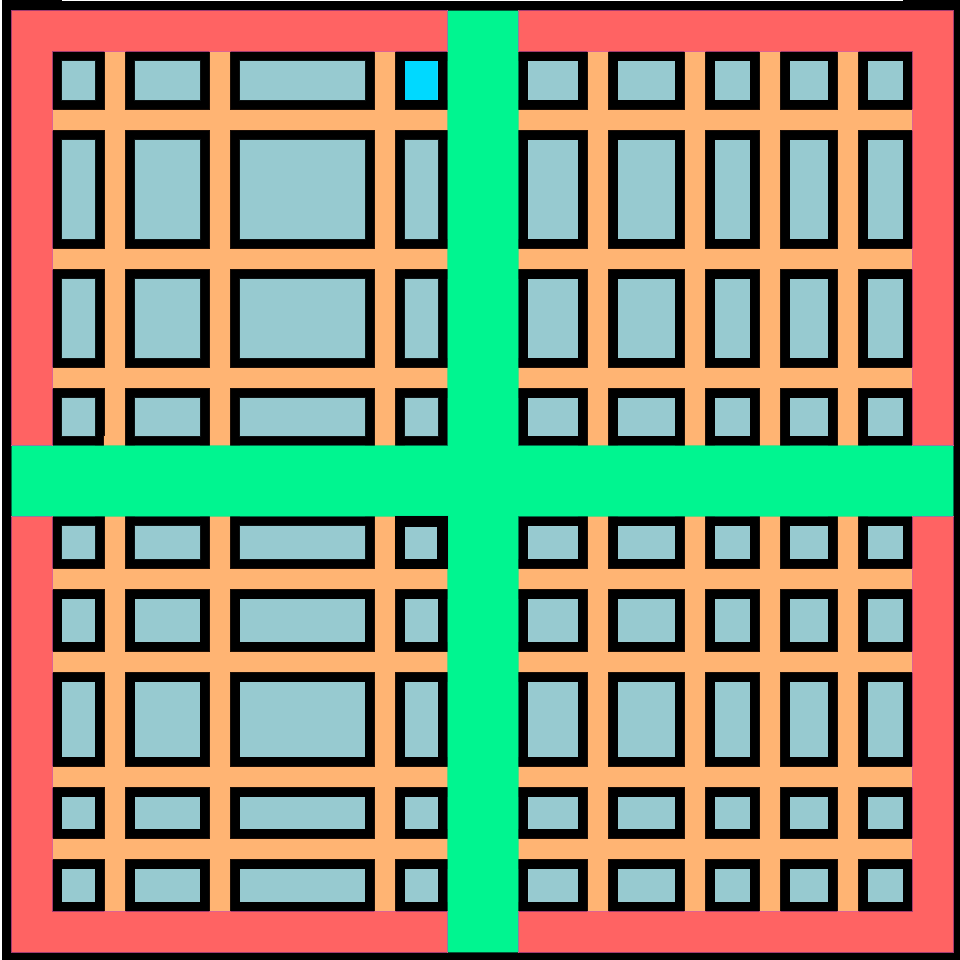
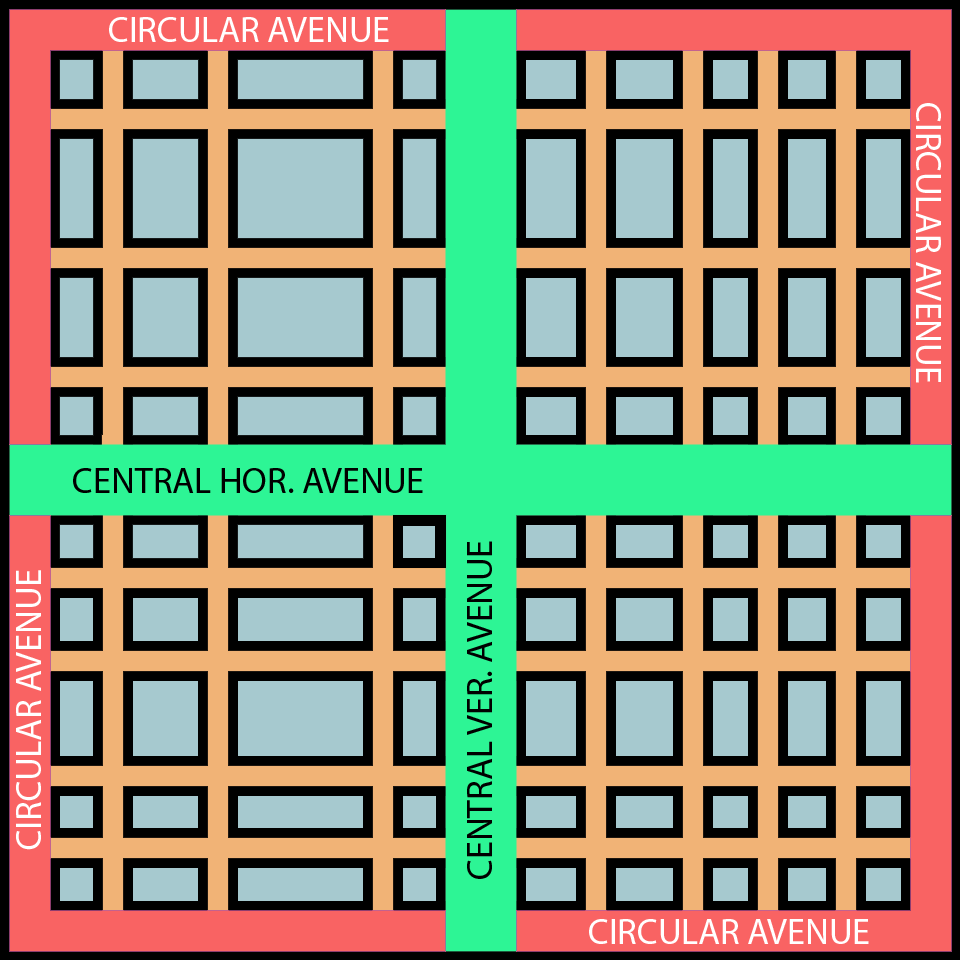
Updated procdural city page

diff --git a/proceduralcity.html b/proceduralcity.html
@@ -270,8 +270,83 @@
 
               <br>
               <h5><strong>Grid generation</strong></h5>
+              <p>Now that I've explained the different segments of our city I'm explaining the whole process of generating it.</p>
               
+              <p>The first step is to create a District by setting up its location, size, street width and avenue width, after that the district starts creating a series of structures called
+                "TemporalStreet", which are the first approach to the streets of our district.
+              </p>
               
+              <br>
+              <h5><strong>Circular and central avenues</strong></h5>
+              <p>Every district has in common a series of streets, the ones called "Circular avenues" and "central avenues", these ones will be created by using temporal streets and the layout would look like this:</p>
+              <div>
+                <img src="assets/img/portfolio/temporal_district_layout.png" width="480" height="480">
+                <p><i>District layout with temporal streets.</i></p>
+              </div>
+
+              <p>The purpose of the temporal streets is to mark off the boundings of the district and to have a way to communicate different districts,</p>
+              
+              <br>
+              <h5><strong>Horizontal and vertical streets</strong></h5>
+              <p>The next step is to create temporal streets to delimitate the flats of our district using the street width that we selected when we created the district. In this step we're going to
+                make a distinction between horizontal and vertical streets and we will create the horizontal streets first in order to define the height of our future flats.
+              </p>
+              <div>
+                <img src="assets/img/portfolio/horizontal_grid.png" width="480" height="480">
+                <p><i>District layout with temporal horizontal streets.</i></p>
+              </div>
+
+              <p>This is the layout with all the horizontal streets, and now we're going to repeat the same operation but with vertical streets, generating the next layout:</p>
+              <div>
+                <img src="assets/img/portfolio/city_grid.png" width="480" height="480">
+                <p><i>District layout with temporal horizontal streets.</i></p>
+              </div>
+
+              <p>And with this simple steps we have the layout for our districts with a fixed spaced for the flats where the buildings will be placed, but currently we only have a "data layout"
+                and we need to convert it into a "physical" one by placing streets and flats.
+              </p>
+
+              <p>The main problem with this approach is that we want to connect our streets smoothly with the different intersections that we have, and currently we only have a bunch of horizontal and vertical
+                streets, and if we place our streets over those "temporal streets" our streets will collide and have <strong>"z fighting"</strong> and very ugly intersections, so, we are going to segment the streets using
+                the intersections between the horizontal and vertical temporal streets and will create "physical" streets on runtime.
+              </p>
+
+              <br>
+              <h5><strong>Street segmentation</strong></h5>
+              <p>For the segmentation process first we have to sort our arrays of temporal streets as we want to iterate through them from the left to the right and from the top to the bottom.</p>
+              <p>The segmentation process is very simple, we just need to check the intersections of the streets and have a control on where the street starts and of its size, and with that data we are ready
+                to instantiate a street with wanted mesh.
+              </p>
+
+              <p>Its important to know which street are we calculating, as we will need to differentiate between streets and intersections, but that's the next step, first we want to make sure that
+                we can create the separate street segments.
+              </p>
+
+              <p>To ease the process of segmentating the streets we are going to take advantage of the predictability of our grid by just calculating the intersections of two of our streets, the circular bottom
+              and the circular left avenue as they also count as regular streets but wider.
+              </p>
+
+              <div>
+                <img src="assets/img/portfolio/segmentation.gif" width="480" height="480">
+                <p><i>District segmentation process.</i></p>
+              </div>
+
+              <p>As you can see the streets are being segmentd in order, first the horizontal and then the vertical one. You also may have noticed that the street is cut just before the intersection and that's 
+                because we need those spots to place a intersection depending on the number of connecting streets in that point.
+              </p>
+
+              <p>The next step is to repeat the process for every street used the stored intersections and interpolating between them, and with that we achieve a full district ready to place flats and buildings.</p>
+              <p>The positioning of the flats is made during the segmentation process, as it's the optimal moment to do it because you're checking the bounds of the intersecting streets and you can find the central
+                point and size of the flat easily.
+              </p>
+
+              <br>
+              <h5><strong>Building placement</strong></h5>
+              <p>The building placement is the last thing we need to do and the process is very simple. First we need to arrange our buildings by size, with three or four different sizes. This is not a very accurte technique but it's easy and fast.
+                After the sorted the buildings we can iterate through our flats, check it's bounds and then choose randomly a building that fits that size with a margin.
+              </p>
+              <hr>
+
               <br>
               <h3>Frustum culling</h3>
               <p>Lorem ipsum dolor sit, amet consectetur adipisicing elit. Voluptas odio quam corrupti voluptatem! 
